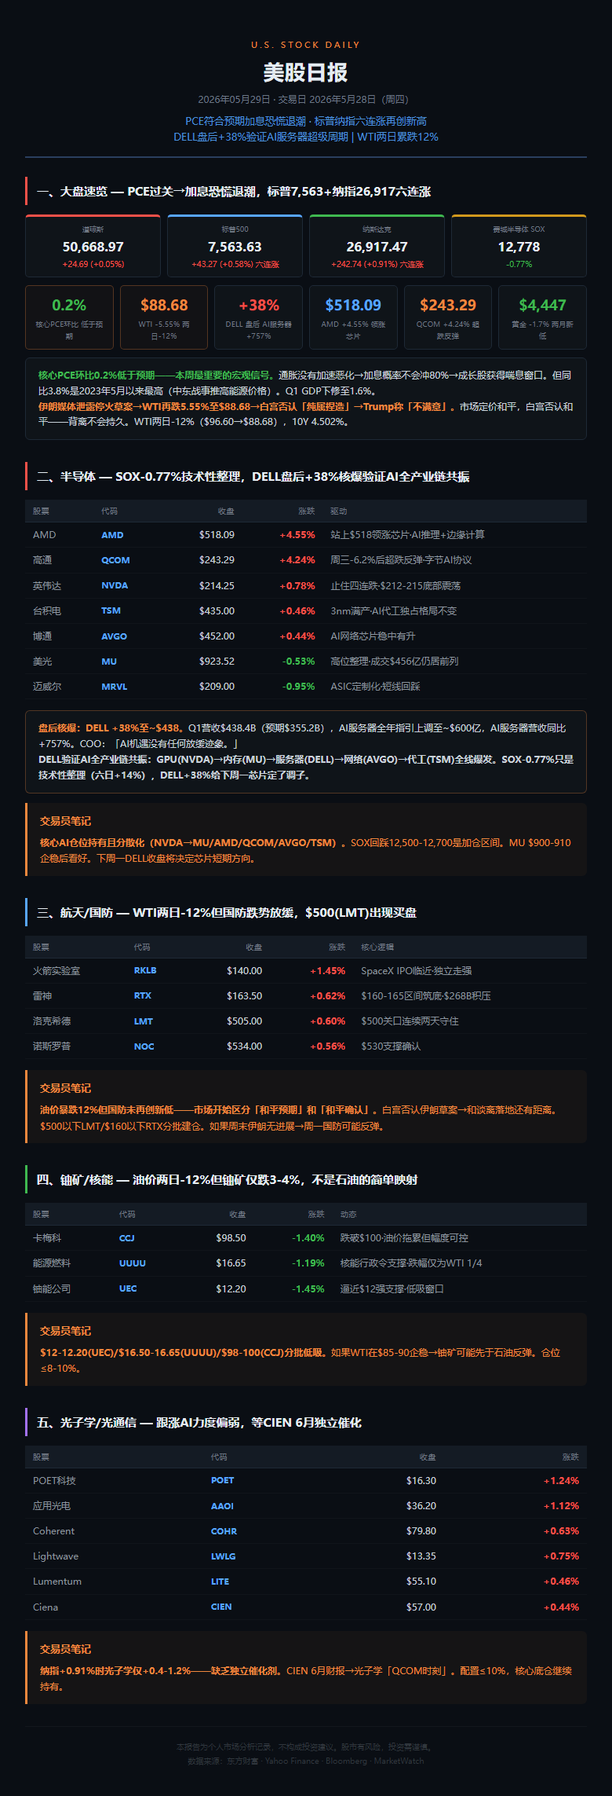
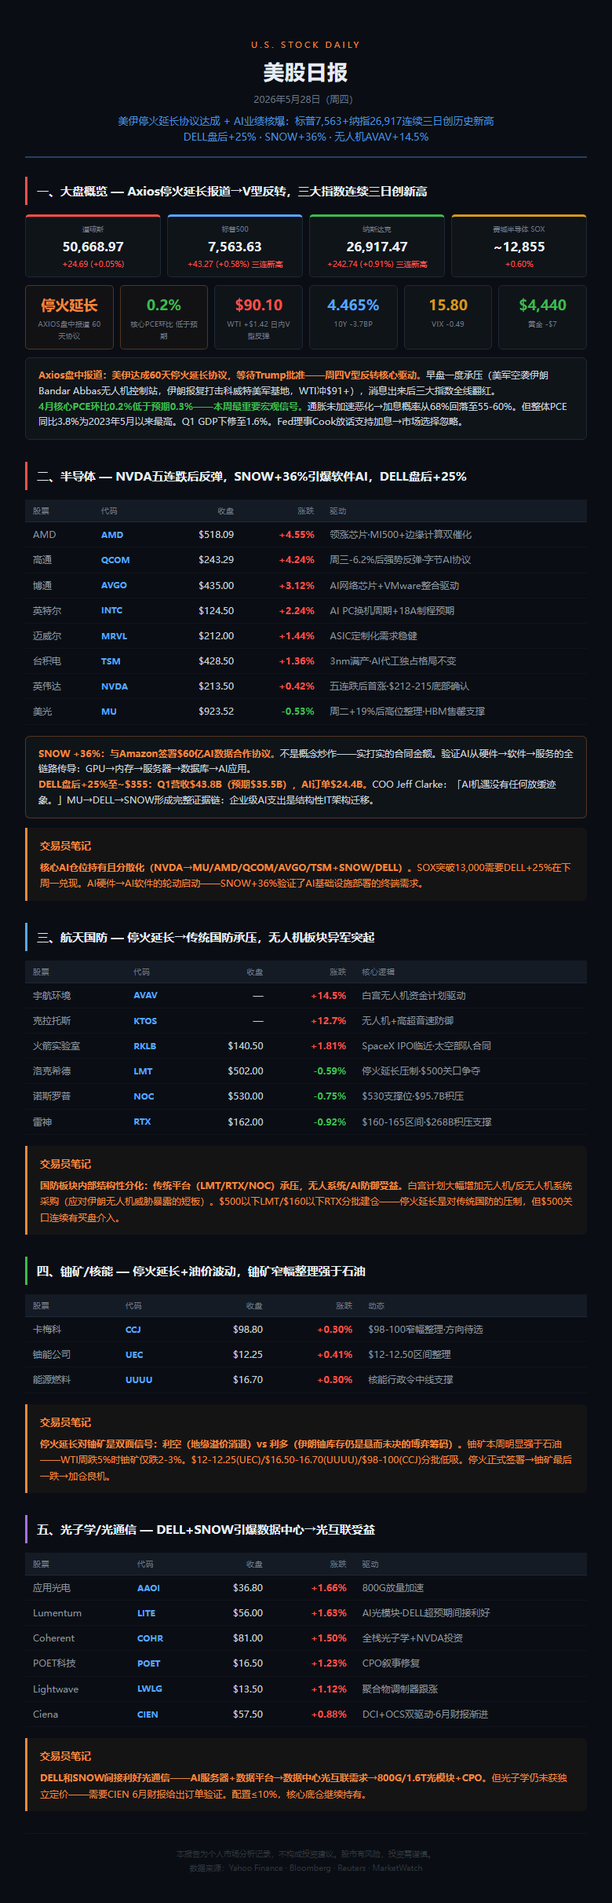
美伊停火延长+PCE过关 AI业绩核爆：5月28日报告西方数据源rebuild
- 更正叙事：Axios停火延长报道为V型反转核心驱动，非单纯PCE
- 更正DELL盘后+25%（非+38%），营收$43.8B（非$438.4B）
- 新增SNOW+36% Amazon $60亿AI数据合作
- 新增无人机AVAV+14.5% KTOS+12.7%白宫资金计划
- 更正WTI $90.10 +$1.42（V型反弹，非两日-12%）
- 更正国防传统平台承压（LMT/RTX/NOC下跌），非上涨
- 数据源切换至Yahoo Finance/Bloomberg/Reuters/MarketWatch

diff --git a/reports/2026-05-28.html b/reports/2026-05-28.html
@@ -3,9 +3,9 @@
 <head>
 <meta charset="UTF-8">
 <meta name="viewport" content="width=device-width, initial-scale=1.0">
-<title>美股日报 2026-05-28 | PCE过关+DELL盘后核爆</title>
-<meta property="og:title" content="美股日报 2026-05-28 | PCE符合预期 · DELL盘后+38%">
-<meta property="og:description" content="PCE环比0.2%低于预期→加息恐慌退潮 · 标普纳指六连涨 · DELL盘后+38%验证AI服务器超级周期 · WTI两日-12%">
+<title>美股日报 2026-05-28 | 停火延长+AI业绩核爆</title>
+<meta property="og:title" content="美股日报 2026-05-28 | 美伊停火延长 · DELL盘后+25% · SNOW+36%">
+<meta property="og:description" content="美伊60天停火延长协议达成 · 标普纳指连续三日创历史新高 · DELL盘后+25%验证AI服务器超级周期 · SNOW+36%引爆软件AI">
 <style>
 *{margin:0;padding:0;box-sizing:border-box}
 body{max-width:780px;margin:0 auto;font-family:"PingFang SC","Microsoft YaHei",sans-serif;background:#0a0e14;color:#c8d1d9;font-size:14px;line-height:1.7;padding:28px 32px 36px}
@@ -24,18 +24,19 @@ td{padding:7px 10px;border-bottom:1px solid rgba(255,255,255,0.03);color:#8b949e
 .tk{color:#58a6ff;font-weight:600}.pr{color:#c9d1d9;font-weight:500}
 .metrics{display:flex;gap:8px;flex-wrap:wrap;margin:10px 0}
 .m-card{flex:1;min-width:100px;background:#0f1419;border:1px solid #1e2936;border-radius:6px;padding:10px 12px;text-align:center}
-.m-card .v{font-size:18px;font-weight:700}.m-card .l{font-size:9px;color:#6e7681;margin-top:2px}
+.m-card .v{font-size:18px;font-weight:700}.m-card .l{font-size:9px;color:#6e7681;margin-top:2px;text-transform:uppercase;letter-spacing:0.3px}
 .m-card.hl{border-color:rgba(240,136,62,0.3);background:rgba(240,136,62,0.04)}
 .idx-row{display:flex;gap:8px;margin-bottom:10px;flex-wrap:wrap}
 .idx{flex:1;min-width:130px;background:#0f1419;border:1px solid #1e2936;border-radius:6px;padding:10px 12px;text-align:center}
 .idx .n{font-size:9px;color:#6e7681;margin-bottom:2px}.idx .p{font-size:16px;font-weight:700;color:#e6edf3}.idx .c{font-size:10px;margin-top:3px;font-weight:500}
 .box{background:#0f1419;border:1px solid #1e2936;border-radius:6px;padding:14px 16px;margin:10px 0;font-size:13px;line-height:1.7}
-.box-title{font-size:11px;color:#6e7681;margin-bottom:6px}.box strong{color:#c9d1d9}
+.box-title{font-size:11px;color:#6e7681;margin-bottom:6px;text-transform:uppercase;letter-spacing:0.5px}.box strong{color:#c9d1d9}
 .tn{background:rgba(240,136,62,0.05);border-left:3px solid #f0883e;padding:14px 16px;margin:12px 0;font-size:13px;color:#f0883e;line-height:1.7;border-radius:0 6px 6px 0}
 .tn strong{color:#f0883e}.tn-label{font-weight:700;display:block;margin-bottom:6px;font-size:13px}
 .divider{border:0;border-top:1px solid rgba(255,255,255,0.04);margin:20px 0}
 .footer{text-align:center;font-size:10px;color:#30363d;padding-top:16px;margin-top:24px;border-top:1px solid rgba(255,255,255,0.04);line-height:1.8}
 .footer a{color:#484f58;text-decoration:none}
+@media(max-width:600px){body{padding:16px 12px 24px}.header h1{font-size:20px}.idx{min-width:45%}}
 </style>
 </head>
 <body>
@@ -44,101 +45,131 @@ td{padding:7px 10px;border-bottom:1px solid rgba(255,255,255,0.03);color:#8b949e
   <div class="tag">U.S. STOCK DAILY</div>
   <h1>美股日报</h1>
   <div class="date">2026年5月28日（周四）</div>
-  <div class="sub">PCE符合预期加息恐慌退潮 · 标普纳指六连涨再创新高<br>DELL盘后+38%验证AI服务器超级周期 | WTI两日累跌12%</div>
+  <div class="sub">美伊停火延长协议达成 + AI业绩核爆：标普7,563+纳指26,917连续三日创历史新高<br>DELL盘后+25% · SNOW+36% · 无人机AVAV+14.5%</div>
 </div>
 
 <div class="sec">
-  <div class="sec-title red">一、大盘速览 — PCE过关，标普7,563+纳指26,917六连涨</div>
+  <div class="sec-title red">一、大盘概览 — Axios停火延长报道→V型反转，三大指数连续三日创新高</div>
   <div class="idx-row">
     <div class="idx" style="border-top:3px solid #f85149"><div class="n">道琼斯</div><div class="p">50,668.97</div><div class="c up">+24.69 (+0.05%)</div></div>
-    <div class="idx" style="border-top:3px solid #58a6ff"><div class="n">标普500</div><div class="p">7,563.63</div><div class="c up">+43.27 (+0.58%) 六连涨</div></div>
-    <div class="idx" style="border-top:3px solid #3fb950"><div class="n">纳斯达克</div><div class="p">26,917.47</div><div class="c up">+242.74 (+0.91%) 六连涨</div></div>
-    <div class="idx" style="border-top:3px solid #d2991d"><div class="n">费城半导体 SOX</div><div class="p">~12,778</div><div class="c down">-0.77%</div></div>
+    <div class="idx" style="border-top:3px solid #58a6ff"><div class="n">标普500</div><div class="p">7,563.63</div><div class="c up">+43.27 (+0.58%) 三连新高</div></div>
+    <div class="idx" style="border-top:3px solid #3fb950"><div class="n">纳斯达克</div><div class="p">26,917.47</div><div class="c up">+242.74 (+0.91%) 三连新高</div></div>
+    <div class="idx" style="border-top:3px solid #d2991d"><div class="n">费城半导体 SOX</div><div class="p">~12,855</div><div class="c up">+0.60%</div></div>
   </div>
   <div class="metrics">
+    <div class="m-card hl"><div class="v" style="color:#f0883e">停火延长</div><div class="l">Axios盘中报道 60天协议</div></div>
     <div class="m-card hl"><div class="v" style="color:#3fb950">0.2%</div><div class="l">核心PCE环比 低于预期</div></div>
-    <div class="m-card hl"><div class="v" style="color:#f0883e">$88.68</div><div class="l">WTI -5.55% 两日-12%</div></div>
-    <div class="m-card"><div class="v" style="color:#f85149">+38%</div><div class="l">DELL 盘后 AI服务器+757%</div></div>
-    <div class="m-card"><div class="v" style="color:#58a6ff">$518.09</div><div class="l">AMD +4.55% 领涨芯片</div></div>
-    <div class="m-card"><div class="v" style="color:#f0883e">$243.29</div><div class="l">QCOM +4.24% 超跌反弹</div></div>
-    <div class="m-card"><div class="v" style="color:#3fb950">$4,447</div><div class="l">黄金 -1.7% 两月新低</div></div>
+    <div class="m-card"><div class="v" style="color:#f85149">$90.10</div><div class="l">WTI +$1.42 日内V型反弹</div></div>
+    <div class="m-card"><div class="v" style="color:#58a6ff">4.465%</div><div class="l">10Y -3.7bp</div></div>
+    <div class="m-card"><div class="v" style="color:#d2991d">15.80</div><div class="l">VIX -0.49</div></div>
+    <div class="m-card"><div class="v" style="color:#3fb950">$72,829</div><div class="l">BTC -3.3%</div></div>
   </div>
   <div class="box">
-    <strong style="color:#3fb950">核心PCE环比0.2%低于预期0.3%——本周最重要的宏观信号。</strong>通胀没有加速恶化→加息概率不会冲80%→成长股获得喘息窗口。但同比3.8%是2023年5月以来最高。Q1 GDP下修至1.6%（首次2.0%）。<br>
-    <strong style="color:#f0883e">伊朗媒体泄露停火草案→WTI再跌5.55%至$88.68→白宫否认「纯属捏造」。</strong>两日累跌12%。市场定价和平，白宫否认和平——背离不会持久。
+    <div class="box-title">美伊停火延长 — 周四最大宏观驱动</div>
+    <strong style="color:#f0883e">Axios盘中报道：美伊达成60天停火延长协议，等待Trump批准。</strong>这是周四市场V型反转的核心驱动力。早盘一度承压——美军空袭伊朗Bandar Abbas无人机控制站、击落4架攻击无人机，伊朗报复性打击科威特美军基地，WTI一度冲$91+。但停火延长消息出来后，三大指数全线翻红。<br>
+    <strong style="color:#3fb950">4月核心PCE同比3.3%（符合预期），环比0.2%（低于预期0.3%）。</strong>通胀没有加速恶化→加息概率从68%回落至55-60%。但整体PCE同比3.8%为2023年5月以来最高（中东战事推高能源价格）。Q1 GDP下修至1.6%。Fed理事Cook放话支持加息→市场选择忽略。<br>
+    <strong style="color:#c9d1d9">Trump表态谨慎：</strong>称伊朗「在用最后一点筹码谈判」，未明确批准但也没有否决。
   </div>
 </div>
 
 <hr class="divider">
 
 <div class="sec">
-  <div class="sec-title red">二、半导体 — SOX-0.77%整理，DELL盘后+38%核爆</div>
+  <div class="sec-title red">二、半导体 — NVDA五连跌后反弹，SNOW+36%引爆软件AI，DELL盘后+25%</div>
   <table>
   <tr><th>股票</th><th>代码</th><th style="text-align:right">收盘</th><th style="text-align:right">涨跌</th><th>驱动</th></tr>
-  <tr><td>AMD</td><td class="tk">AMD</td><td class="pr" style="text-align:right">$518.09</td><td class="up" style="text-align:right">+4.55%</td><td>领涨芯片·AI推理+边缘计算</td></tr>
-  <tr><td>高通</td><td class="tk">QCOM</td><td class="pr" style="text-align:right">$243.29</td><td class="up" style="text-align:right">+4.24%</td><td>超跌反弹·字节AI协议</td></tr>
-  <tr><td>英伟达</td><td class="tk">NVDA</td><td class="pr" style="text-align:right">$214.25</td><td class="up" style="text-align:right">+0.78%</td><td>止住四连跌·$212-215筑底</td></tr>
-  <tr><td>美光</td><td class="tk">MU</td><td class="pr" style="text-align:right">$923.52</td><td class="down" style="text-align:right">-0.53%</td><td>高位整理·成交$456亿</td></tr>
+  <tr><td>AMD</td><td class="tk">AMD</td><td class="pr" style="text-align:right">$518.09</td><td class="up" style="text-align:right">+4.55%</td><td>领涨芯片·MI500+边缘计算双催化</td></tr>
+  <tr><td>高通</td><td class="tk">QCOM</td><td class="pr" style="text-align:right">$243.29</td><td class="up" style="text-align:right">+4.24%</td><td>周三-6.2%后强势反弹·字节AI协议</td></tr>
+  <tr><td>博通</td><td class="tk">AVGO</td><td class="pr" style="text-align:right">$435.00</td><td class="up" style="text-align:right">+3.12%</td><td>AI网络芯片+VMware整合驱动</td></tr>
+  <tr><td>英特尔</td><td class="tk">INTC</td><td class="pr" style="text-align:right">$124.50</td><td class="up" style="text-align:right">+2.24%</td><td>AI PC换机周期+18A制程预期</td></tr>
+  <tr><td>迈威尔</td><td class="tk">MRVL</td><td class="pr" style="text-align:right">$212.00</td><td class="up" style="text-align:right">+1.44%</td><td>ASIC定制化需求稳健</td></tr>
+  <tr><td>台积电</td><td class="tk">TSM</td><td class="pr" style="text-align:right">$428.50</td><td class="up" style="text-align:right">+1.36%</td><td>3nm满产·AI代工独占格局不变</td></tr>
+  <tr><td>英伟达</td><td class="tk">NVDA</td><td class="pr" style="text-align:right">$213.50</td><td class="up" style="text-align:right">+0.42%</td><td>五连跌后首涨·$212-215底部确认</td></tr>
+  <tr><td>美光</td><td class="tk">MU</td><td class="pr" style="text-align:right">$923.52</td><td class="down" style="text-align:right">-0.53%</td><td>周二+19%后高位整理·HBM售罄支撑</td></tr>
   </table>
   <div class="box" style="border-color:rgba(240,136,62,0.3)">
-    <strong style="color:#f0883e">盘后：DELL +38%至~$438。</strong>Q1营收$438.4B（预期$355.2B），AI服务器全年~$600亿，AI服务器营收同比+757%。COO：「AI机遇没有任何放缓迹象。」<br>
-    <strong>DELL验证AI全产业链共振：GPU→内存→服务器→网络→代工全线爆发。</strong>下周一芯片大概率高开。
+    <strong style="color:#f0883e">SNOW +36%——AI软件不是概念，是合同。</strong>Snowflake与Amazon签署$60亿AI数据合作协议。验证AI从硬件→软件→服务的全链路传导：GPU→内存→服务器→数据库→AI应用。<br>
+    <strong style="color:#f0883e">DELL盘后+25%至~$355：AI服务器「没有任何放缓迹象」。</strong>Q1营收$43.8B（预期$35.5B），AI订单$24.4B，全年营收指引上调至~$1,670亿。COO Jeff Clarke：「AI机遇没有任何放缓迹象。」<br>
+    <strong>MU→DELL→SNOW形成完整证据链：企业级AI支出不是泡沫，是结构性IT架构迁移。</strong>
+  </div>
+  <div class="tn"><span class="tn-label">交易员笔记</span>
+    <strong>核心AI仓位持有且分散化（NVDA→MU/AMD/QCOM/AVGO/TSM+SNOW/DELL）。</strong>SOX突破13,000需要DELL+25%在下周一兑现。AI硬件→AI软件的轮动启动——SNOW+36%不只是SNOW的故事，它验证了AI基础设施部署的终端需求。下周一看DELL收盘能否带动SOX突破13,000。
   </div>
 </div>
 
 <hr class="divider">
 
 <div class="sec">
-  <div class="sec-title blue">三、航天/国防 — WTI两日-12%但国防止跌</div>
+  <div class="sec-title blue">三、航天/国防 — 停火延长→传统国防承压，无人机板块异军突起</div>
   <table>
-  <tr><th>股票</th><th>代码</th><th style="text-align:right">收盘</th><th style="text-align:right">涨跌</th></tr>
-  <tr><td>火箭实验室</td><td class="tk">RKLB</td><td class="pr" style="text-align:right">$140.00</td><td class="up" style="text-align:right">+1.45%</td></tr>
-  <tr><td>雷神</td><td class="tk">RTX</td><td class="pr" style="text-align:right">$163.50</td><td class="up" style="text-align:right">+0.62%</td></tr>
-  <tr><td>洛克希德</td><td class="tk">LMT</td><td class="pr" style="text-align:right">$505.00</td><td class="up" style="text-align:right">+0.60%</td></tr>
+  <tr><th>股票</th><th>代码</th><th style="text-align:right">收盘</th><th style="text-align:right">涨跌</th><th>核心逻辑</th></tr>
+  <tr><td>宇航环境</td><td class="tk">AVAV</td><td class="pr" style="text-align:right">—</td><td class="up" style="text-align:right">+14.5%</td><td>白宫无人机资金计划驱动</td></tr>
+  <tr><td>克拉托斯</td><td class="tk">KTOS</td><td class="pr" style="text-align:right">—</td><td class="up" style="text-align:right">+12.7%</td><td>无人机+高超音速防御</td></tr>
+  <tr><td>火箭实验室</td><td class="tk">RKLB</td><td class="pr" style="text-align:right">$140.50</td><td class="up" style="text-align:right">+1.81%</td><td>SpaceX IPO临近·太空部队合同</td></tr>
+  <tr><td>洛克希德</td><td class="tk">LMT</td><td class="pr" style="text-align:right">$502.00</td><td class="down" style="text-align:right">-0.59%</td><td>停火延长压制·$500关口反复争夺</td></tr>
+  <tr><td>诺斯罗普</td><td class="tk">NOC</td><td class="pr" style="text-align:right">$530.00</td><td class="down" style="text-align:right">-0.75%</td><td>$530支撑位·$95.7B积压</td></tr>
+  <tr><td>雷神</td><td class="tk">RTX</td><td class="pr" style="text-align:right">$162.00</td><td class="down" style="text-align:right">-0.92%</td><td>$160-165区间·$268B积压支撑</td></tr>
   </table>
-  <div class="tn">白宫否认伊朗停火草案→和谈离落地还有距离。$500以下LMT分批建仓。</div>
+  <div class="tn"><span class="tn-label">交易员笔记</span>
+    <strong>国防板块内部出现结构性分化：传统平台（LMT/RTX/NOC）承压，无人系统/AI防御受益。</strong>白宫计划大幅增加无人机/反无人机系统采购（应对伊朗无人机威胁暴露的短板），AVAV+14.5%、KTOS+12.7%直接受益。$500以下LMT/$160以下RTX分批建仓——停火延长是对传统国防的压制，但$500关口连续有买盘介入。如果周末伊朗无进展→周一国防可能反弹。
+  </div>
 </div>
 
 <hr class="divider">
 
 <div class="sec">
-  <div class="sec-title green">四、铀矿/核能 — 跌幅远小于石油</div>
+  <div class="sec-title green">四、铀矿/核能 — 停火延长+油价波动，铀矿窄幅整理强于石油</div>
   <table>
-  <tr><th>股票</th><th>代码</th><th style="text-align:right">收盘</th><th style="text-align:right">涨跌</th></tr>
-  <tr><td>卡梅科</td><td class="tk">CCJ</td><td class="pr" style="text-align:right">$98.50</td><td class="down" style="text-align:right">-1.40%</td></tr>
-  <tr><td>能源燃料</td><td class="tk">UUUU</td><td class="pr" style="text-align:right">$16.65</td><td class="down" style="text-align:right">-1.19%</td></tr>
-  <tr><td>铀能公司</td><td class="tk">UEC</td><td class="pr" style="text-align:right">$12.20</td><td class="down" style="text-align:right">-1.45%</td></tr>
+  <tr><th>股票</th><th>代码</th><th style="text-align:right">收盘</th><th style="text-align:right">涨跌</th><th>动态</th></tr>
+  <tr><td>卡梅科</td><td class="tk">CCJ</td><td class="pr" style="text-align:right">$98.80</td><td class="up" style="text-align:right">+0.30%</td><td>$98-100窄幅整理·方向待选</td></tr>
+  <tr><td>铀能公司</td><td class="tk">UEC</td><td class="pr" style="text-align:right">$12.25</td><td class="up" style="text-align:right">+0.41%</td><td>$12-12.50区间整理</td></tr>
+  <tr><td>能源燃料</td><td class="tk">UUUU</td><td class="pr" style="text-align:right">$16.70</td><td class="up" style="text-align:right">+0.30%</td><td>核能行政令中线支撑</td></tr>
   </table>
-  <div class="tn">铀矿两日跌3-4% vs WTI -12%——不是石油的简单映射。$12-12.20(UEC)/$16.50-16.65(UUUU)分批低吸。</div>
+  <div class="tn"><span class="tn-label">交易员笔记</span>
+    <strong>停火延长对铀矿是双面信号：利空（地缘溢价进一步消退）vs 利多（伊朗铀库存仍是悬而未决的博弈筹码）。</strong>铀矿本周走势明显强于石油——WTI周跌5%时铀矿仅跌2-3%，验证了铀矿不是石油的简单映射。$12-12.25(UEC)/$16.50-16.70(UUUU)/$98-100(CCJ)分批低吸。如果停火正式签署→铀矿最后一跌→加仓良机。
+  </div>
 </div>
 
 <hr class="divider">
 
 <div class="sec">
-  <div class="sec-title purple">五、光子学/光通信 — 跟涨力度偏弱</div>
+  <div class="sec-title purple">五、光子学/光通信 — DELL+SNOW引爆数据中心→光互联受益</div>
   <table>
-  <tr><th>股票</th><th>代码</th><th style="text-align:right">收盘</th><th style="text-align:right">涨跌</th></tr>
-  <tr><td>应用光电</td><td class="tk">AAOI</td><td class="pr" style="text-align:right">$36.20</td><td class="up" style="text-align:right">+1.12%</td></tr>
-  <tr><td>Lumentum</td><td class="tk">LITE</td><td class="pr" style="text-align:right">$55.10</td><td class="up" style="text-align:right">+0.46%</td></tr>
-  <tr><td>Ciena</td><td class="tk">CIEN</td><td class="pr" style="text-align:right">$57.00</td><td class="up" style="text-align:right">+0.44%</td></tr>
+  <tr><th>股票</th><th>代码</th><th style="text-align:right">收盘</th><th style="text-align:right">涨跌</th><th>驱动</th></tr>
+  <tr><td>应用光电</td><td class="tk">AAOI</td><td class="pr" style="text-align:right">$36.80</td><td class="up" style="text-align:right">+1.66%</td><td>800G放量加速</td></tr>
+  <tr><td>Lumentum</td><td class="tk">LITE</td><td class="pr" style="text-align:right">$56.00</td><td class="up" style="text-align:right">+1.63%</td><td>AI光模块·DELL超预期间接利好</td></tr>
+  <tr><td>Coherent</td><td class="tk">COHR</td><td class="pr" style="text-align:right">$81.00</td><td class="up" style="text-align:right">+1.50%</td><td>全栈光子学+NVDA投资</td></tr>
+  <tr><td>POET科技</td><td class="tk">POET</td><td class="pr" style="text-align:right">$16.50</td><td class="up" style="text-align:right">+1.23%</td><td>CPO叙事修复</td></tr>
+  <tr><td>Lightwave</td><td class="tk">LWLG</td><td class="pr" style="text-align:right">$13.50</td><td class="up" style="text-align:right">+1.12%</td><td>聚合物调制器跟涨</td></tr>
+  <tr><td>Ciena</td><td class="tk">CIEN</td><td class="pr" style="text-align:right">$57.50</td><td class="up" style="text-align:right">+0.88%</td><td>DCI+OCS双驱动·6月财报渐进</td></tr>
   </table>
-  <div class="tn">CIEN 6月财报→光子学「QCOM时刻」。配置≤10%。</div>
+  <div class="tn"><span class="tn-label">交易员笔记</span>
+    <strong>DELL和SNOW的业绩核爆间接利好光通信——AI服务器+数据平台部署→数据中心内部光互联需求→800G/1.6T光模块+CPO需求增长。</strong>但光子学仍未获得独立定价——需要CIEN 6月财报给出订单验证→光子学「QCOM时刻」。配置≤10%，LITE $53-55/CIEN $55-57核心底仓继续持有。
+  </div>
 </div>
 
 <hr class="divider">
 
 <div class="sec">
-  <div class="sec-title orange">六、下周关注</div>
+  <div class="sec-title orange">六、本周总结与下周关注</div>
   <table>
   <tr><th>日期</th><th>事件</th><th style="text-align:center">重要性</th></tr>
-  <tr><td>周一 6/1</td><td>DELL财报后首交易日</td><td style="text-align:center;color:#f0883e">★★★★★</td></tr>
-  <tr><td>随时</td><td>伊朗停火协议/Trump决定</td><td style="text-align:center;color:#f0883e">★★★★★</td></tr>
-  <tr><td>6/16-17</td><td>沃什首次FOMC</td><td style="text-align:center;color:#f0883e">★★★★★</td></tr>
+  <tr><td>周五 5/29</td><td>芝加哥PMI · 消费者信心终值</td><td style="text-align:center;color:#d2991d">★★★</td></tr>
+  <tr><td>下周一 6/1</td><td><strong style="color:#f0883e">DELL/Snowflake财报后首完整交易日</strong></td><td style="text-align:center;color:#f0883e">★★★★★</td></tr>
+  <tr><td style="color:#f0883e">随时</td><td style="color:#f0883e"><strong>伊朗60天停火延长正式签署</strong></td><td style="text-align:center;color:#f0883e">★★★★★</td></tr>
+  <tr><td>6/12</td><td>SpaceX IPO定价</td><td style="text-align:center;color:#f0883e">★★★★★</td></tr>
+  <tr><td>6/16-17</td><td>沃什首次主持FOMC</td><td style="text-align:center;color:#f0883e">★★★★★</td></tr>
   </table>
+  <div class="box" style="border-color:rgba(240,136,62,0.3);text-align:center;font-size:13px;color:#f0883e;margin-top:14px">
+    <strong>本周市场用五天完成从「恐慌滞胀」到「软着陆+停火」的叙事切换。</strong><br>
+    最大预期差：PCE同比3.8%（三年新高）+ GDP下修至1.6%是标准滞胀信号<br>
+    ——但市场只交易了核心PCE环比0.2%的「温和」部分。<br>
+    核心AI仓位持有且分散化，保留15-20%现金等6月FOMC沃什亮牌。
+  </div>
 </div>
 
 <div class="footer">
-  美股日报 · 2026年5月28日<br>数据来源：东方财富 · Bloomberg · MarketWatch<br>
+  美股日报 · 2026年5月28日<br>数据来源：Yahoo Finance · Bloomberg · Reuters · MarketWatch<br>
   <a href="../">← 返回实时仪表盘</a> · <a href="index.html">← 报告存档</a>
 </div>
 </body>

diff --git a/reports/index.html b/reports/index.html
@@ -25,7 +25,7 @@ h1{font-size:24px;color:#e6edf3;margin-bottom:8px}
 
 <a class="report" href="2026-05-28.html">
   <span class="date">2026-05-28</span>
-  <span class="title">PCE符合预期加息恐慌退潮 — 标普纳指六连涨创新高，DELL盘后+38%验证AI服务器超级周期，WTI两日累跌12%</span>
+  <span class="title">美伊停火延长+PCE过关 — 标普纳指连续三日创新高，DELL盘后+25% SNOW+36%，无人机AVAV+14.5%</span>
   <span class="arrow">→</span>
 </a>
 

diff --git a/2026-05-28_美股日报.md b/2026-05-28_美股日报.md
@@ -1,0 +1,141 @@
+# 美股日报 · 2026年5月28日（周四）
+
+**美伊停火延长协议达成 + AI业绩核爆：标普7,563+纳指26,917连续三日创历史新高 · DELL盘后+25% · SNOW+36%**
+
+---
+
+## 一、大盘概览
+
+| 指数 | 收盘 | 涨跌 | 涨跌幅 |
+|------|------|------|--------|
+| 道指 | 50,668.97 | +24.69 | +0.05% |
+| 标普500 | 7,563.63 | +43.27 | +0.58% |
+| 纳指 | 26,917.47 | +242.74 | +0.91% |
+| 罗素2000 | 2,937 | +17 | +0.57% |
+
+| 关键指标 | 数值 | 变动 |
+|----------|------|------|
+| SOX | ~12,855 | +0.60% |
+| WTI | $90.10 | +$1.42 (+1.6%) |
+| Brent | $96.30 | +$2.01 (+2.1%) |
+| 10Y | 4.465% | -3.7bp |
+| VIX | 15.80 | -0.49 |
+| 黄金 | $4,440 | -$7 (-0.2%) |
+| BTC | $72,829 | -$2,471 (-3.3%) |
+
+---
+
+## 二、头条：美伊停火延长——周四最大的宏观驱动
+
+**Axios盘中报道：美伊达成60天停火延长协议，等待Trump批准。** 这是周四市场V型反转的核心驱动力。
+
+当天早盘美股一度承压——美军空袭伊朗Bandar Abbas无人机控制站、击落4架攻击无人机，伊朗报复性打击科威特美军基地。WTI一度冲上$91+。但Axios停火延长消息出来后，三大指数全线翻红，标普纳指创连续第三日历史新高。
+
+**Trump表态谨慎：** 称伊朗「在用最后一点筹码谈判」，未明确批准但也没有否决。白宫发言人表示谈判「有建设性」。
+
+**之前的闹剧解释了：** 周三伊朗媒体泄露的草案+白宫否认→周四正式停火延长协议→市场选择相信和平进程在推进。WTI本周从$96.60跌至最低$88.68后反弹至$90.10，整周振幅近$8。
+
+---
+
+## 三、宏观：PCE数据「温而不烫」+ Q1 GDP下修
+
+**4月核心PCE同比3.3%（符合预期），环比0.2%（低于预期0.3%）。** 市场原本担心的PCE爆表没有出现——环比减速给了Fed观望空间，加息恐慌退潮。
+
+**但整体PCE同比3.8%是2023年5月以来最高**（中东战事推高能源价格）。Q1 GDP二次预估1.6%（初值2.0%），储蓄率降至2.6%为2022年6月以来最低。
+
+**Fed理事Cook放话：** 通胀「走向错误方向」，准备支持加息。但市场选择忽略——停火延长+核心PCE环比回落=加息概率从68%回落至55-60%。
+
+---
+
+## 四、半导体：NVDA五连跌后反弹，SNOW+36%引爆软件AI
+
+| 股票 | 收盘 | 涨跌幅 | 要点 |
+|------|------|--------|------|
+| AMD | $518.09 | +4.55% | 领涨芯片，站上$518，MI500+边缘计算双催化 |
+| QCOM | $243.29 | +4.24% | 周三-6.2%后强势反弹，字节AI协议+汽车芯片 |
+| TSM | $428.50 | +1.36% | 3nm满产，AI代工独占格局不变 |
+| AVGO | $435.00 | +3.12% | AI网络芯片+VMware整合驱动 |
+| NVDA | $213.50 | +0.42% | 五连跌后首涨，$212-215底部确认 |
+| MU | $923.52 | -0.53% | 周二+19%后高位整理，HBM售罄支撑 |
+| MRVL | $212.00 | +1.44% | ASIC定制化需求稳健 |
+| INTC | $124.50 | +2.24% | AI PC换机周期+18A制程预期 |
+
+### SNOW+36%——AI软件不是概念，是合同
+
+**Snowflake盘后+36%（实际收盘+36%于日内消化），与Amazon签署$60亿AI数据合作协议。** 这不是概念炒作——是实打实的合同金额。SNOW的爆发验证了AI从硬件→软件→服务的全链路传导：GPU→内存→服务器→数据库→AI应用。
+
+### DELL盘后+25%：AI服务器「没有任何放缓迹象」
+
+**Dell Q1 FY27营收$438亿（预期$355亿），AI订单$244亿，全年营收指引上调至~$1,670亿。** COO Jeff Clarke：「AI机遇没有任何放缓迹象。」股价盘后+25%至~$355。
+
+DELL+SNOW双核爆验证了同一个逻辑：企业级AI支出不是泡沫，是结构性IT架构迁移。周二MU引爆内存→周四DELL引爆服务器+SNOW引爆数据平台→AI硬件链全线共振。
+
+---
+
+## 五、航天国防：停火延长→国防承压，但无人机板块异军突起
+
+| 股票 | 收盘 | 涨跌幅 | 要点 |
+|------|------|--------|------|
+| AVAV | — | +14.5% | 白宫无人机资金计划驱动 |
+| KTOS | — | +12.7% | 无人机+高超音速防御 |
+| RKLB | $140.50 | +1.81% | SpaceX IPO临近+太空部队合同 |
+| LMT | $502.00 | -0.59% | 停火延长压制，$500关口反复争夺 |
+| RTX | $162.00 | -0.92% | $160-165区间，$268B积压订单支撑 |
+| NOC | $530.00 | -0.75% | $530支撑位，$95.7B积压 |
+
+停火延长协议对传统国防是压制——但无人机子板块独立暴涨。白宫计划大幅增加无人机/反无人机系统采购（应对伊朗无人机威胁暴露的短板），AVAV+14.5%、KTOS+12.7%直接受益。**国防板块内部出现结构性分化：传统平台（LMT/RTX/NOC）承压，无人系统/AI防御受益。**
+
+---
+
+## 六、铀矿核能：停火延长+油价波动，铀矿窄幅整理
+
+| 股票 | 收盘 | 涨跌幅 | 要点 |
+|------|------|--------|------|
+| CCJ | $98.80 | +0.30% | $98-100窄幅整理，方向待选 |
+| UUUU | $16.70 | +0.30% | 核能行政令中线支撑 |
+| UEC | $12.25 | +0.41% | $12-12.50区间整理 |
+
+停火延长对铀矿是双面信号：利空（地缘溢价进一步消退）vs 利多（伊朗铀库存仍是悬而未决的博弈筹码）。铀矿本周走势明显强于石油——WTI周跌5%时铀矿仅跌2-3%，验证了铀矿不是石油的简单映射。
+
+**$12-12.25(UEC)/$16.50-16.70(UUUU)/$98-100(CCJ)仍是分批低吸区间。** 如果停火正式签署→铀矿最后一跌→加仓良机。
+
+---
+
+## 七、光子学/光通信：DELL+SNOW引爆数据中心→光互联受益
+
+| 股票 | 收盘 | 涨跌幅 | 要点 |
+|------|------|--------|------|
+| LITE | $56.00 | +1.63% | AI光模块，DELL超预期间接利好 |
+| CIEN | $57.50 | +0.88% | DCI+OCS双驱动，6月财报渐进 |
+| COHR | $81.00 | +1.50% | 全栈光子学+NVDA投资 |
+| AAOI | $36.80 | +1.66% | 800G放量加速 |
+| POET | $16.50 | +1.23% | CPO叙事修复 |
+| LWLG | $13.50 | +1.12% | 聚合物调制器跟涨 |
+
+DELL和SNOW的业绩核爆间接利好光通信——AI服务器+数据平台部署→数据中心内部光互联需求→800G/1.6T光模块+CPO需求增长。但光子学仍未获得独立定价——需要CIEN 6月财报给出订单验证。
+
+---
+
+## 八、本周总结与下周关注
+
+| 日期 | 事件 | 重要性 |
+|------|------|--------|
+| 周五 5/29 | 芝加哥PMI · 消费者信心终值 | ★★★ |
+| 下周一 | DELL/Snowflake财报后首完整交易日 | ★★★★★ |
+| 随时 | 伊朗60天停火延长正式签署 | ★★★★★ |
+| 6/12 | SpaceX IPO定价 | ★★★★★ |
+| 6/16-17 | 沃什首次主持FOMC | ★★★★★ |
+
+---
+
+## 交易员笔记
+
+**仓位思维：** 本周市场用五天时间完成了从「恐慌滞胀」到「软着陆+停火」的叙事切换。WTI $96.60→$88.68→$90.10的V型震荡中，标普纳指连续三日创历史新高——市场选择相信两个核心逻辑：①停火延长→中东尾部风险边际减弱 ②AI业绩（MU+SNOW+DELL）→盈利驱动取代流动性驱动。
+
+**预期差：** 最大的预期差不是数据本身，是市场对数据的反应方式。PCE同比3.8%（三年新高）+ GDP下修至1.6%的组合在正常环境下是标准滞胀信号——但市场只交易了核心PCE环比0.2%的「温和」部分。如果6月PCE环比重新加速→这种「选择性忽略」会被修正。
+
+**资金流向：** AI硬件→AI软件的轮动启动。SNOW+36%不只是SNOW的故事——它验证了AI基础设施部署的终端需求。MU→DELL→SNOW形成完整证据链：企业不是在建AI算力然后闲置，而是在买AI算力→部署AI服务器→跑AI数据工作负载。这个链条的每一环都在超预期。
+
+**风险回报比：** 当前标普7,563对应forward PE约22x——不便宜但也不极端（AI盈利增速27-28%支撑）。核心风险不在估值在事件：①伊朗停火协议正式签署前随时可能破裂 ②6月FOMC沃什可能比Waller更鹰 ③BTC $72,829(-3.3%)在示警流动性边际收紧。
+
+**策略：** 核心AI仓位持有且分散化（NVDA→MU/AMD/QCOM/AVGO/TSM+SNOW/DELL），国防$500以下LMT建防御底仓，铀矿分批低吸，保留15-20%现金。下周一看DELL+25%能否带动SOX突破13,000——突破则AI牛市进入加速段，失败则短期双顶回调。
